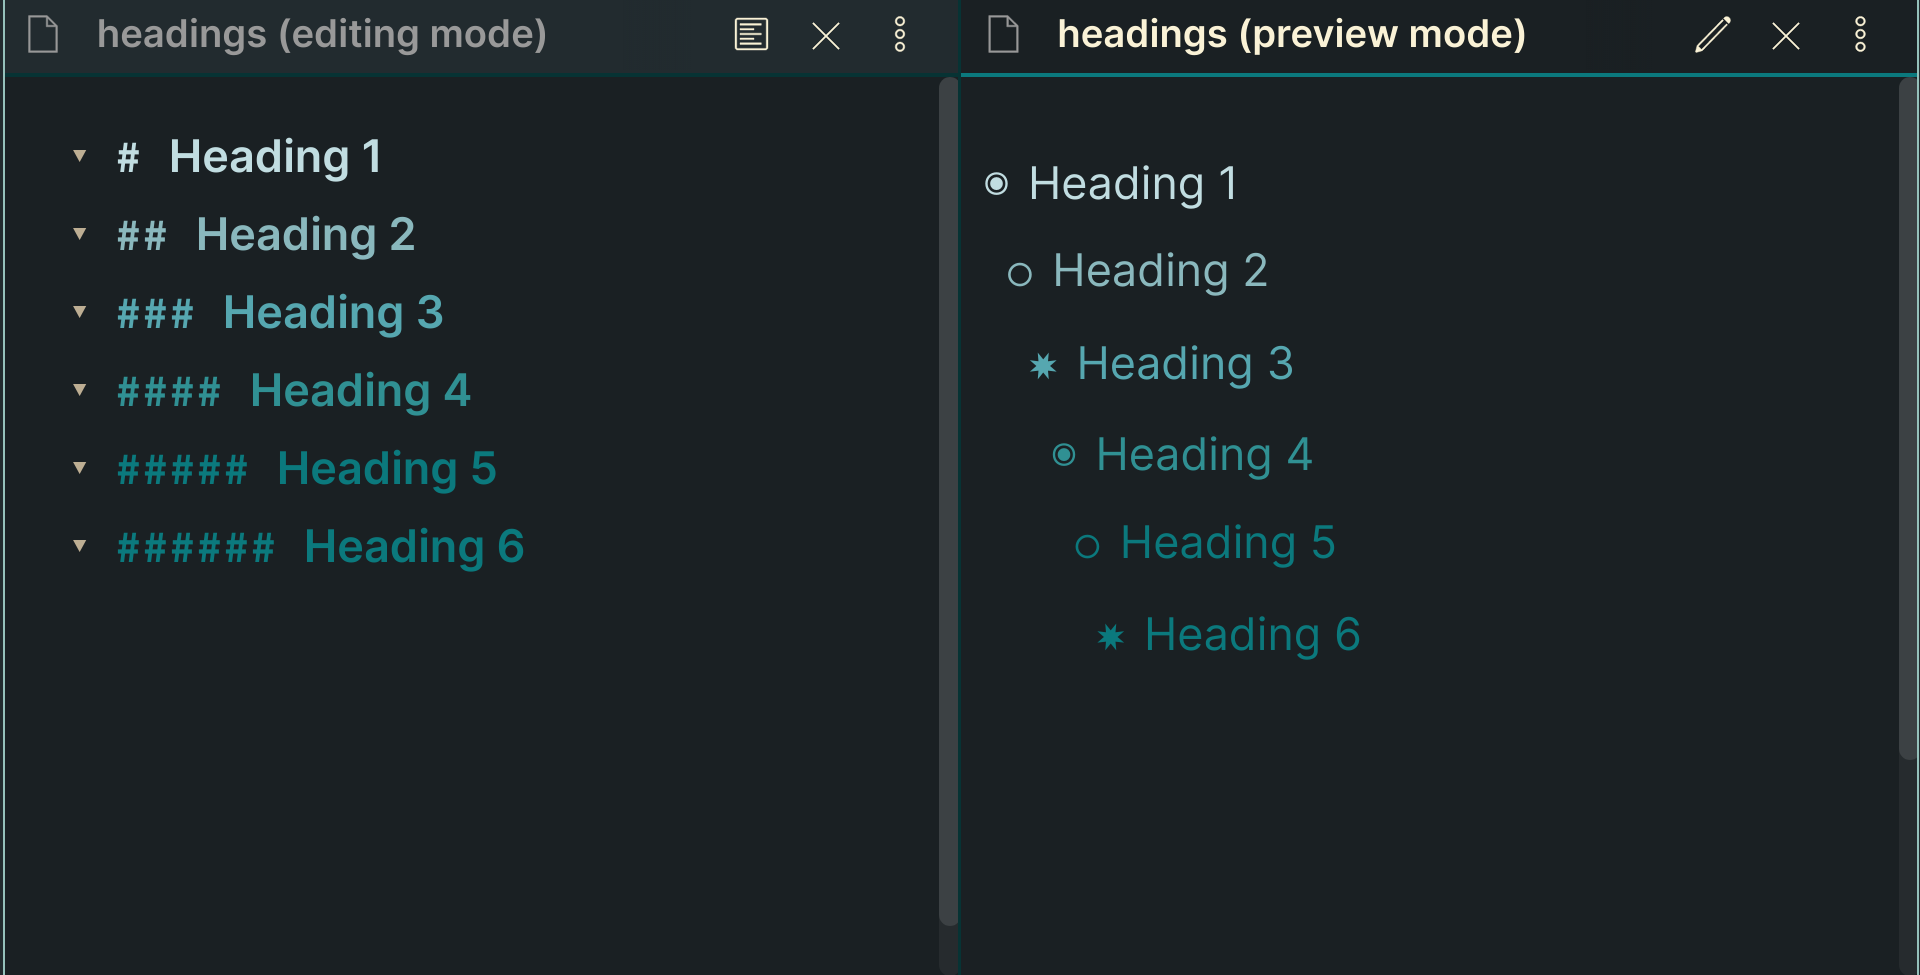
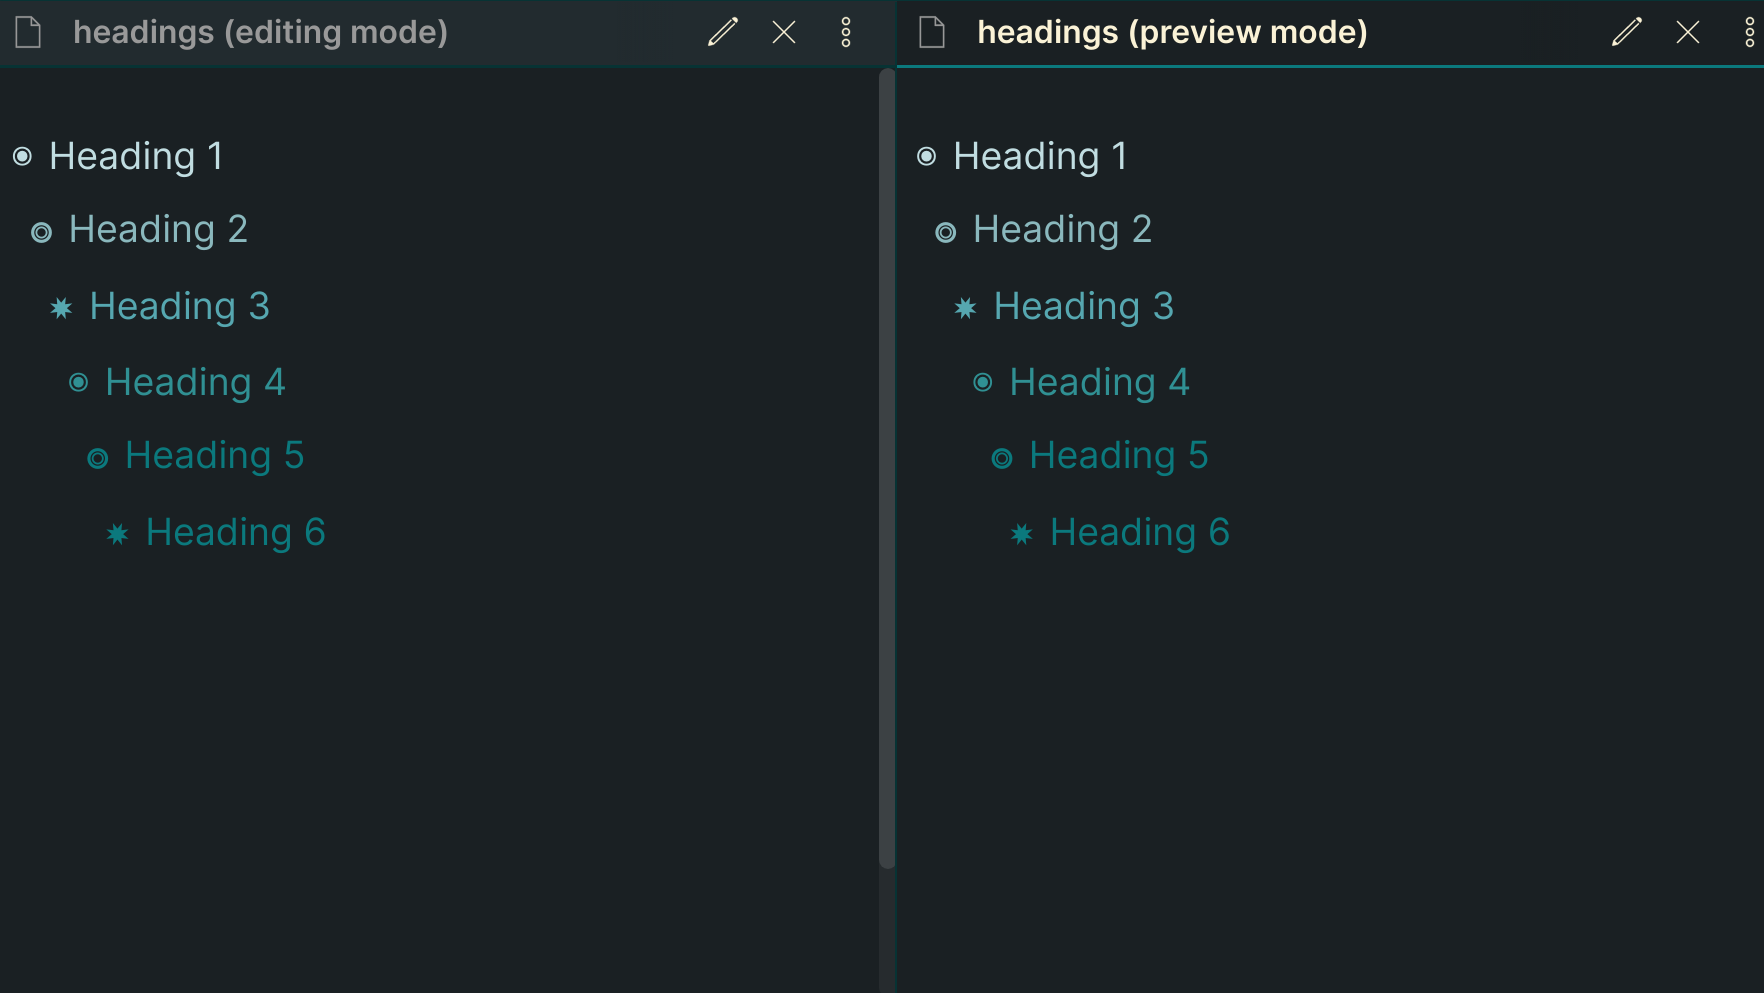
updated code and images for h2

diff --git a/obsidian.css b/obsidian.css
@@ -1,8 +1,8 @@
 /* This Theme is called "Reverie" and Obsidian Theme created by Santi Younger */
 
 /* Last Update:
-2020-10-28 13:19
-*/
+2020-10-28 14:00
+     */
 
 :root
 {
@@ -454,7 +454,7 @@ font-size: 20px;
 h2:before {
 margin-left: 10px;
 margin-right: 8px;
-content: "○";
+content: "⭗";
 font-size: 14px;
 }
 
@@ -475,7 +475,7 @@ font-size: 20px;
 h5:before {
 margin-left: 40px;
 margin-right: 8px;
-content: "○";
+content: "⭗";
 font-size: 14px;
 }
 
@@ -523,5 +523,3 @@ line-height: 24px;
 
 /*-----------------------------------------*/
 /* End of main theme, extra functionality can be added below */
-
-/* -------------------------------------------------------------- */
